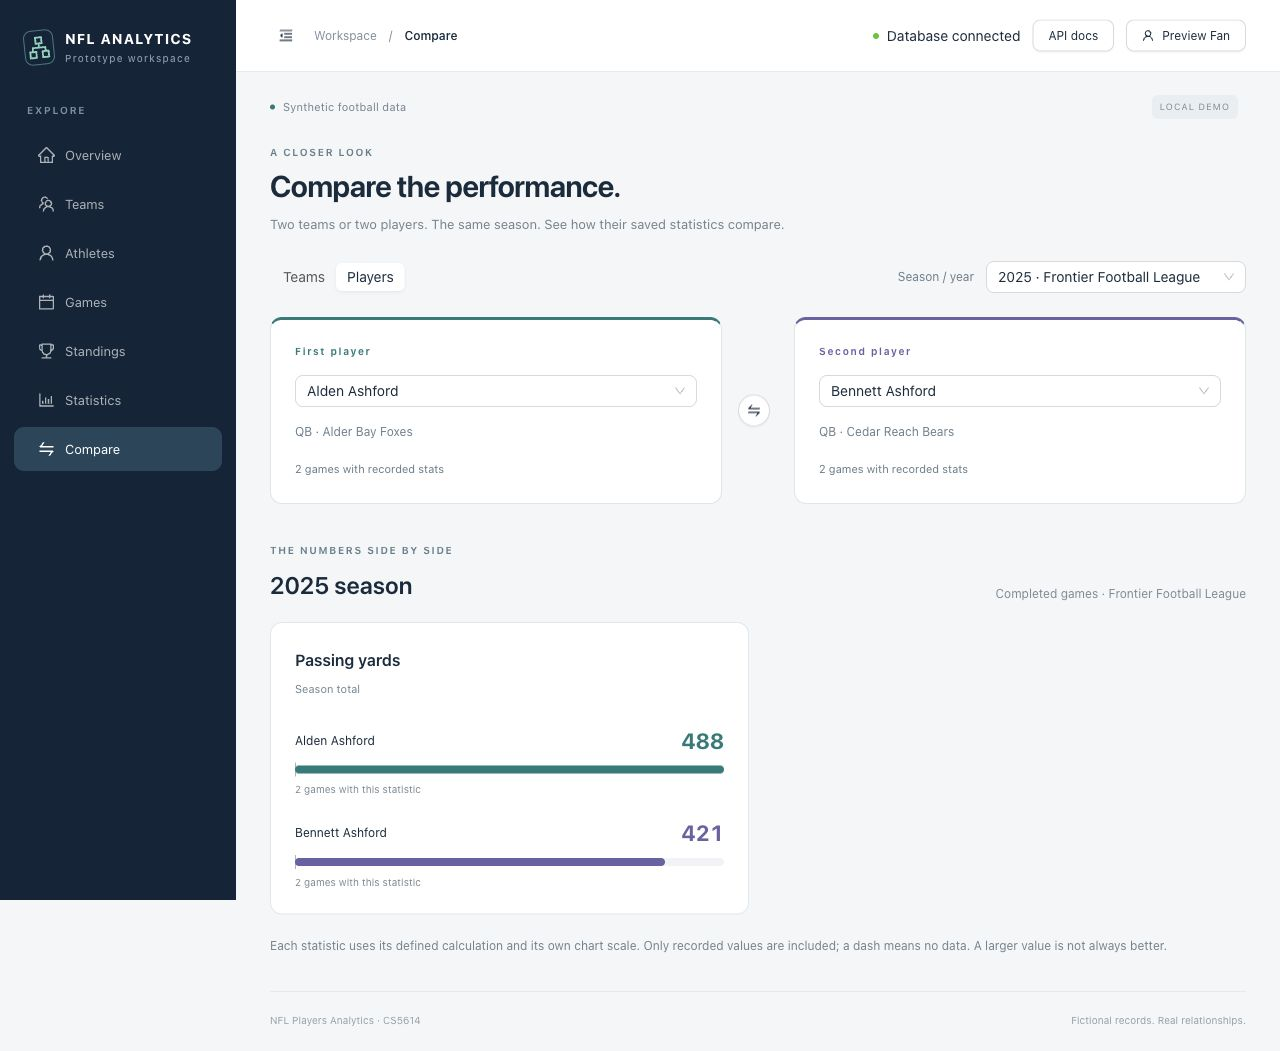
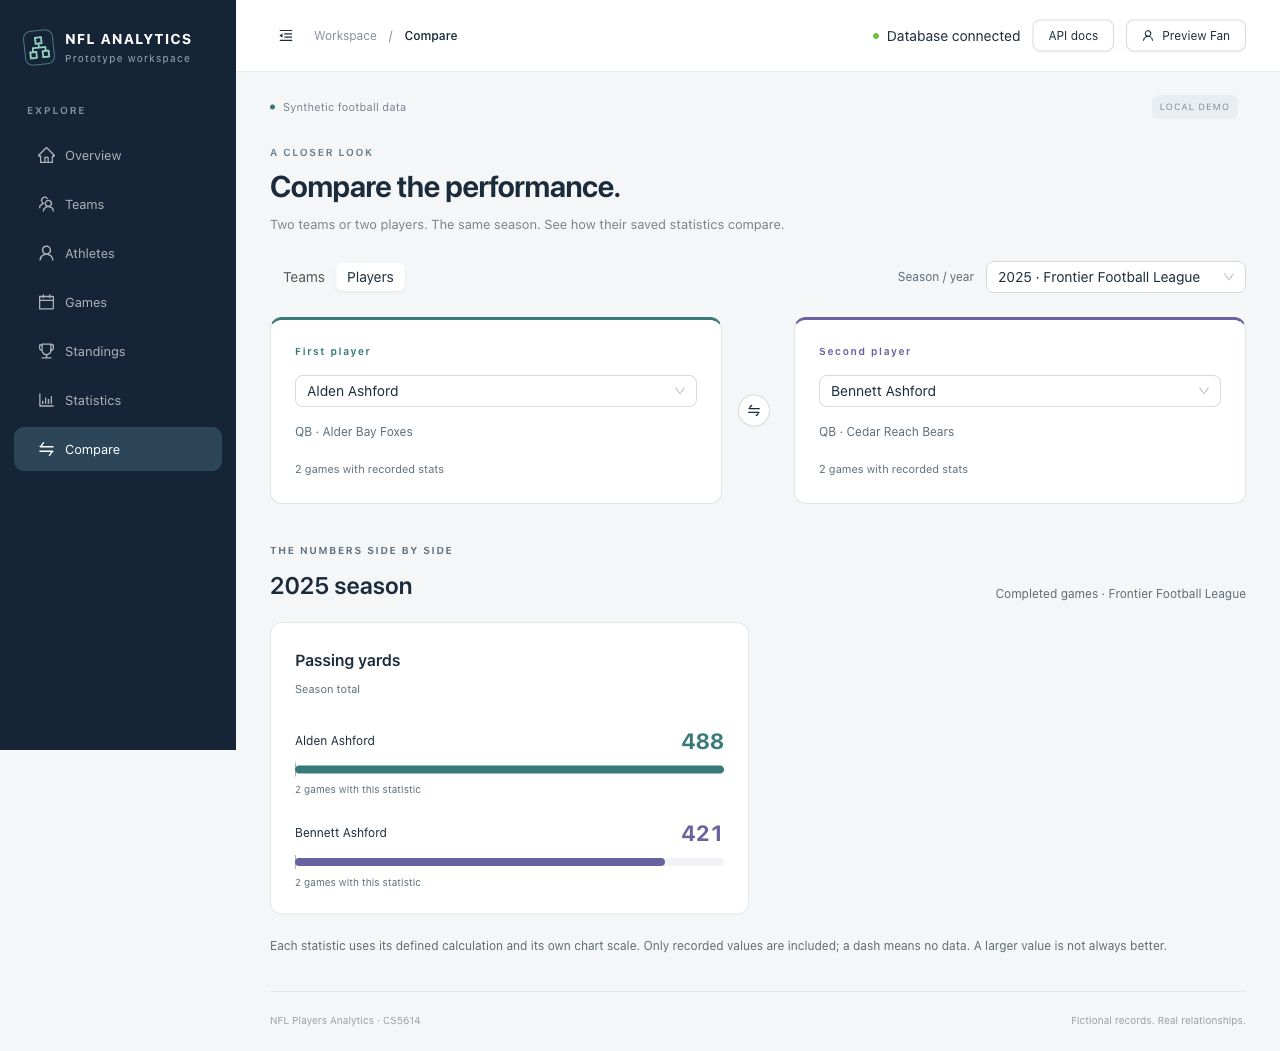
fix: improve comparison caption contrast

Changed region(s): [[0.0, 0.7003, 0.1875, 0.883]]

diff --git a/frontend/src/features/comparisons/comparisons.css b/frontend/src/features/comparisons/comparisons.css
@@ -9,7 +9,7 @@
   display: flex;
   align-items: center;
   gap: 12px;
-  color: #6b7f8c;
+  color: #596d79;
   font-size: 12px;
 }
 .comparison-season .ant-select {
@@ -46,14 +46,14 @@
   font-size: 16px;
 }
 .comparison-subject p {
-  color: #6c7f8d;
+  color: #596d79;
   font-size: 12px;
   line-height: 1.7;
   min-height: 22px;
   margin: 14px 0;
 }
 .comparison-game-count {
-  color: #647b87;
+  color: #596d79;
   font-size: 11px;
 }
 .comparison-results-heading {
@@ -68,6 +68,10 @@
   margin: 6px 0 0;
   font-size: 24px;
   font-weight: 600;
+}
+.comparison-results-heading .muted,
+.comparison-results-heading .eyebrow {
+  color: #596d79;
 }
 .comparison-metrics {
   display: grid;
@@ -89,7 +93,7 @@
   margin: 0 0 5px;
 }
 .comparison-metric header span {
-  color: #738591;
+  color: #596d79;
   font-size: 11px;
 }
 .comparison-bar + .comparison-bar {
@@ -129,13 +133,13 @@
 }
 .comparison-bar small {
   display: block;
-  color: #788993;
+  color: #596d79;
   font-size: 10px;
   margin-top: 8px;
 }
 .comparison-footnote {
   margin: 20px 0;
-  color: #708490;
+  color: #596d79;
   font-size: 12px;
   line-height: 1.8;
 }
